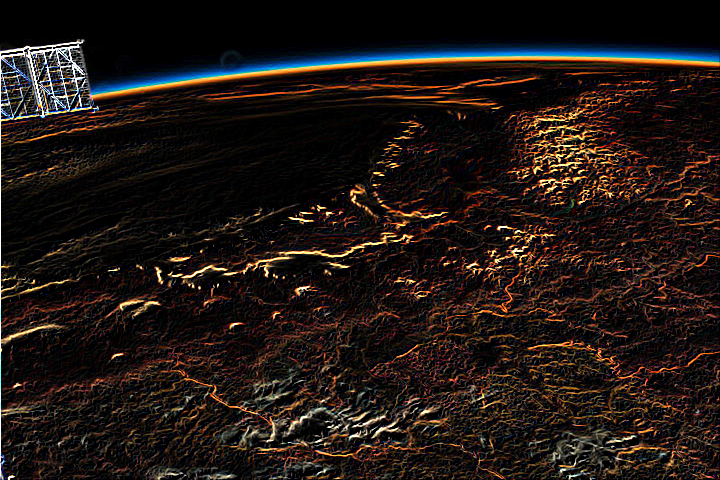
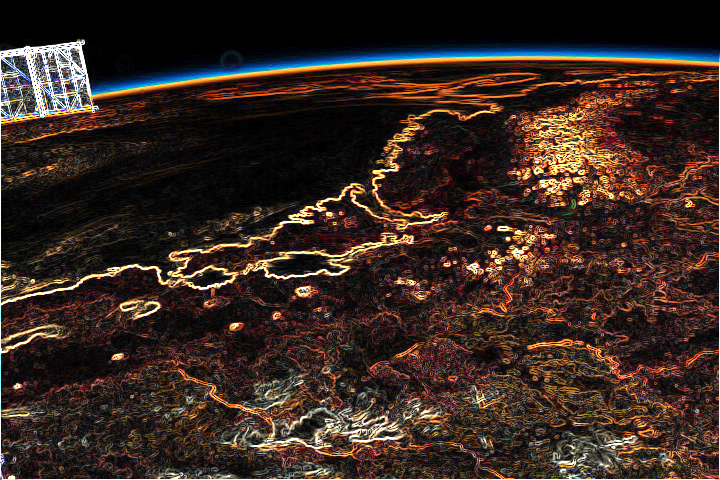
corrected integer division

Changed region(s): [[0.0, 0.125, 1.0, 1.0], [0.0, 0.0938, 0.2444, 0.375], [0.0917, 0.4062, 0.1222, 0.4375]]

diff --git a/Library/ImageEditor.java b/Library/ImageEditor.java
@@ -7,7 +7,8 @@ public class ImageEditor {
         ADD, SUB, MUL, DIV
     }
 
-    public static int[][] convolve(int in[][], double[][] mask, boolean normalize) throws IllegalArgumentException {
+    public static int[][] convolve(int in[][], double[][] mask, boolean normalize, boolean clamp)
+            throws IllegalArgumentException {
         int mheight = mask.length;
         int mwidth = mask[0].length;
         if (mheight % 2 == 0 || mwidth % 2 == 0) {
@@ -46,59 +47,55 @@ public class ImageEditor {
                         }
                     }
                 }
-                out[i][j] = (int) (sum < 0 ? 0 : (sum > 255 ? 255 : sum));
+                if (clamp) {
+                    out[i][j] = (int) (sum < 0 ? 0 : (sum > 255 ? 255 : sum));
+                } else {
+                    out[i][j] = (int) sum;
+                }
             }
         }
 
         return out;
     }
 
-    public static int[][][] scale(int[][][] img, int outMin, int outMax) {
-        int[][] histograms = new int[3][256];
+    public static int[][][] scale(int[][][] img, double outMin, double outMax) {
+        double[] mins = new double[] { 255, 255, 255 };
+        double[] maxs = new double[] { 0, 0, 0 };
+        int[][][] out = new int[img.length][img[0].length][img[0][0].length];
         for (int i = 0; i < img[0].length; i++) {
             for (int j = 0; j < img[0][0].length; j++) {
-                int red = img[0][i][j];
-                int green = img[1][i][j];
-                int blue = img[2][i][j];
-                histograms[0][red]++;
-                histograms[1][green]++;
-                histograms[2][blue]++;
-            }
-        }
-        float[][] Stats = new float[][] {
-                { 255, 0 },
-                { 255, 0 },
-                { 255, 0 }
-        };
-        for (int i = 0; i < histograms[0].length; i++) {
-            if (histograms[0][i] != 0) {
-                Stats[0][1] = i;
-            }
-            if (histograms[1][i] != 0) {
-                Stats[1][1] = i;
-            }
-            if (histograms[2][i] != 0) {
-                Stats[2][1] = i;
-            }
-            if (histograms[0][255 - i] != 0) {
-                Stats[0][0] = 255 - i;
-            }
-            if (histograms[1][255 - i] != 0) {
-                Stats[1][0] = 255 - i;
-            }
-            if (histograms[2][255 - i] != 0) {
-                Stats[2][0] = 255 - i;
-            }
-        }
-        for (int i = 0; i < img[0].length; i++) {
-            for (int j = 0; j < img[0][0].length; j++) {
-                for (int plane = 0; plane < 3; plane++) {
-                    double result = (img[plane][i][j] - Stats[plane][0])/(Stats[plane][1] - Stats[plane][0]) * (outMax - outMin) + outMin;
-                    img[plane][i][j] = (int) (result > 255 ? 255 : (result < 0 ? 0 : result));
+                if (img[0][i][j] > maxs[0]) {
+                    maxs[0] = img[0][i][j];
+                }
+                if (img[0][i][j] < mins[0]) {
+                    mins[0] = img[0][i][j];
+                }
+                if (img[1][i][j] > maxs[1]) {
+                    maxs[1] = img[1][i][j];
+                }
+                if (img[1][i][j] < mins[1]) {
+                    mins[1] = img[1][i][j];
+                }
+                if (img[2][i][j] > maxs[2]) {
+                    maxs[2] = img[2][i][j];
+                }
+                if (img[2][i][j] < mins[2]) {
+                    mins[2] = img[2][i][j];
                 }
             }
         }
-        return img;
+        double[] sfs = { (outMax - outMin) / (maxs[0] - mins[0]),
+                (outMax - outMin) / (maxs[1] - mins[1]),
+                (outMax - outMin) / (maxs[2] - mins[2]) };
+        for (int plane = 0; plane < 3; plane++) {
+            for (int i = 0; i < img[0].length; i++) {
+                for (int j = 0; j < img[0][0].length; j++) {
+                    double result = sfs[plane] * (img[plane][i][j] - mins[plane]) + outMin;
+                    out[plane][i][j] = (int) (result > 255 ? 255 : (result < 0 ? 0 : result));
+                }
+            }
+        }
+        return out;
     }
 
     public static int[][][] alter(int[][][] img, double[] scalars, OPERATION op) {

diff --git a/SobelEdgeDetection/EdgeDetection.java b/SobelEdgeDetection/EdgeDetection.java
@@ -27,11 +27,9 @@ class EdgeDetection {
             int[][][] magImg = new int[3][img[0].length][img[0][0].length];
             int[][][] orImg = new int[3][img[0].length][img[0][0].length];
             for (int i = 0; i < 3; i++) {
-                horImg[i] = ImageEditor.convolve(img[i], horMask, false);
-                verImg[i] = ImageEditor.convolve(img[i], verMask, false);
+                horImg[i] = ImageEditor.convolve(img[i], horMask, false, false);
+                verImg[i] = ImageEditor.convolve(img[i], verMask, false, false);
             }
-            horImg = ImageEditor.scale(horImg, 0, 255);
-            verImg = ImageEditor.scale(verImg, 0, 255);
             for (int c = 0; c < img.length; c++) {
                 for (int i = 0; i < img[0].length; i++) {
                     for (int j = 0; j < img[0][0].length; j++) {
@@ -45,8 +43,8 @@ class EdgeDetection {
             }
             magImg = ImageEditor.scale(magImg, 0, 255);
             orImg = ImageEditor.scale(orImg, 0, 255);
-            BufferedImage outiH = ImageEditor.int2bi(horImg);
-            BufferedImage outiV = ImageEditor.int2bi(verImg);
+            BufferedImage outiH = ImageEditor.int2bi(ImageEditor.scale(horImg, 0, 255));
+            BufferedImage outiV = ImageEditor.int2bi( ImageEditor.scale(verImg, 0, 255));
             BufferedImage outMag = ImageEditor.int2bi(magImg);
             BufferedImage outOr = ImageEditor.int2bi(orImg);
             ImageIO.write(outiH, "PNG", new File("C:\\Code\\CSC4ST-ImageProcessing\\SobelEdgeDetection\\outiH.png"));
